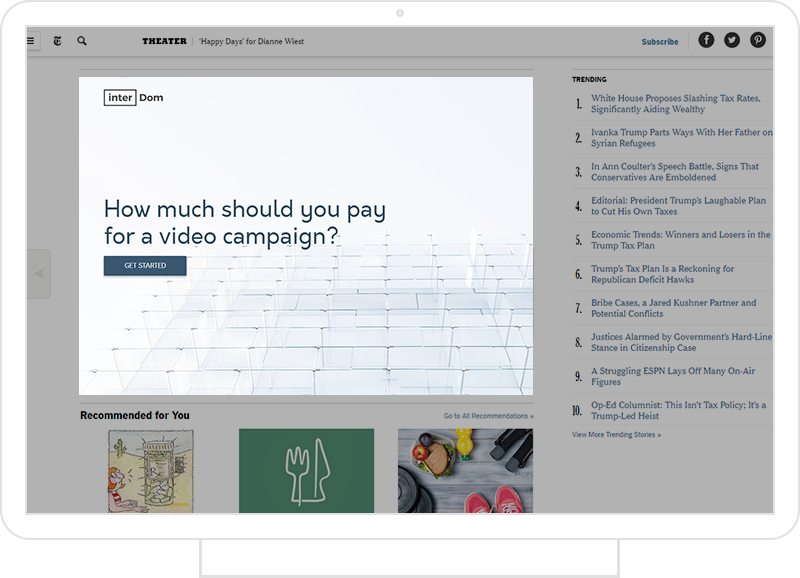
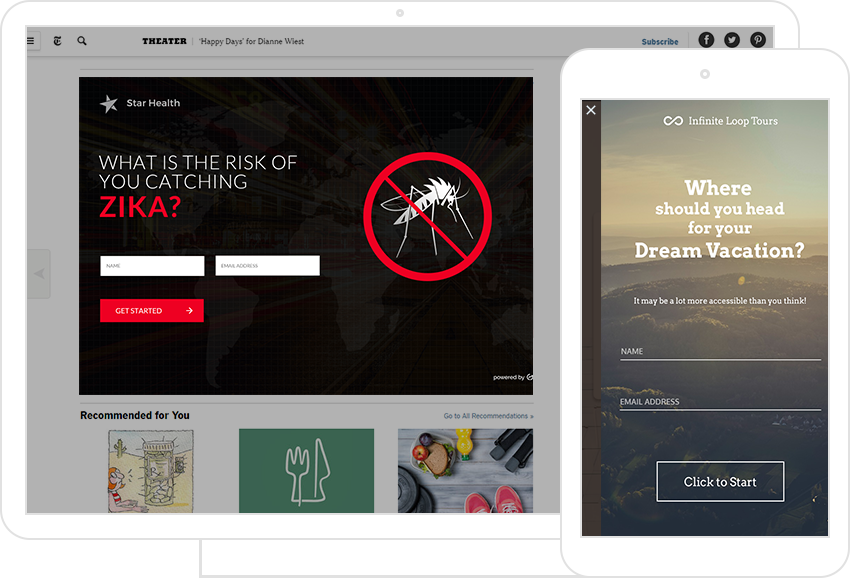
testimonials section

diff --git a/siteNew/outgrow-home/css/allPage_minified.css b/siteNew/outgrow-home/css/allPage_minified.css
@@ -15270,7 +15270,7 @@ span.icon-webcam {
     border: 2px solid #e1e1e1 !important; 
     box-shadow: 0px 11px 24px rgba(0,0,0,.28);
     border: none;
-	min-height: 80vh;
+	min-height: 75vh;
 }
 .sec-outgrowMagic {
     /*height: 90vh;*/
@@ -15734,6 +15734,21 @@ iframe.outgrow-video {
 	.swiper-button-prev{
 		background-image:url(../images/swiper-button-prev.png) !important;
 		background-size: 20px 35px !important;
+	}
+	.swiper-slide.swiper-slide-active {
+		width: 50% !important;
+	}
+	.swiper-slide.swiper-slide-prev {
+		width: 25% !important;
+		height: 100%;
+		padding: 90px 0px;
+		opacity: 0.3;
+	}
+	.swiper-slide.swiper-slide-next {
+		width: 25% !important;
+		height: 100%;
+		padding: 90px 0px;
+		opacity: 0.3;
 	}
 
 /*end: new css by Arti */

diff --git a/siteNew/outgrow-home/index.html b/siteNew/outgrow-home/index.html
@@ -1201,9 +1201,11 @@
 			paginationClickable: true,
 			nextButton: '.swiper-button-next',
 			prevButton: '.swiper-button-prev',
-			// spaceBetween: 30,
-			// centeredSlides: true,
+			spaceBetween: 30,
+			slidesPerView: 3,
+			centeredSlides: true,
 			autoplay: 2500,
+			speed:500,
 			autoplayDisableOnInteraction: false
 		});
 		console.log('After slider');
@@ -1213,9 +1215,11 @@
 			paginationClickable: true,
 			nextButton: '.swiper-button-next',
 			prevButton: '.swiper-button-prev',
-			// spaceBetween: 30,
-			// centeredSlides: true,
+			spaceBetween: 30,
+			slidesPerView: 3,
+			centeredSlides: true,
 			autoplay: 2500,
+			speed:500,
 			autoplayDisableOnInteraction: false
 		});
 		 //youtube video
